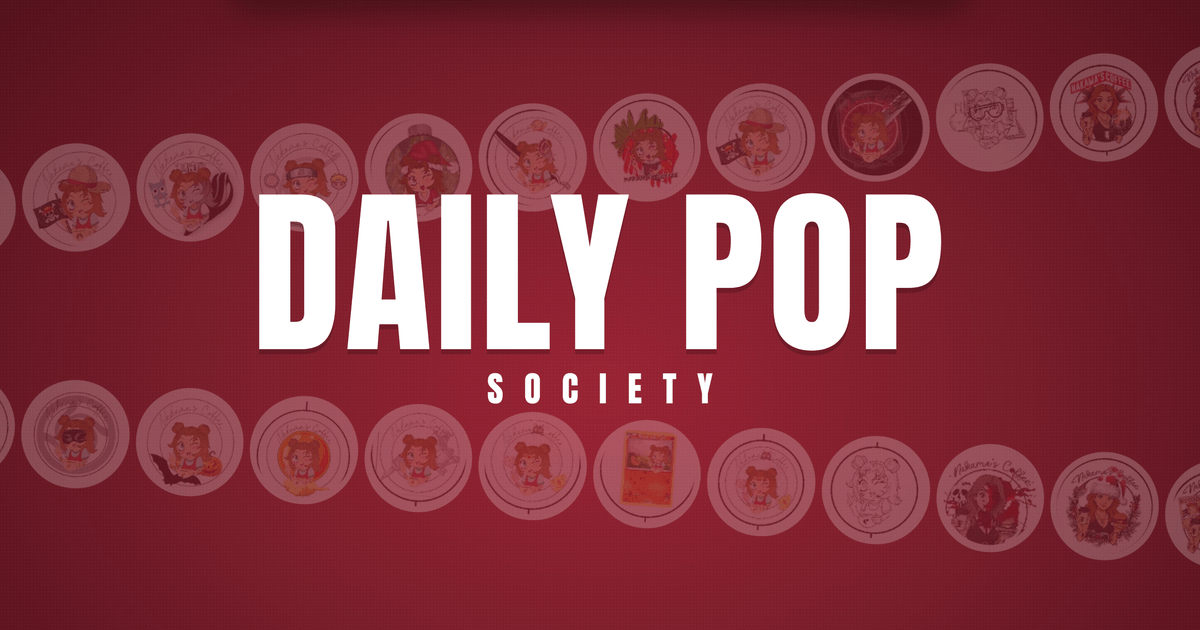
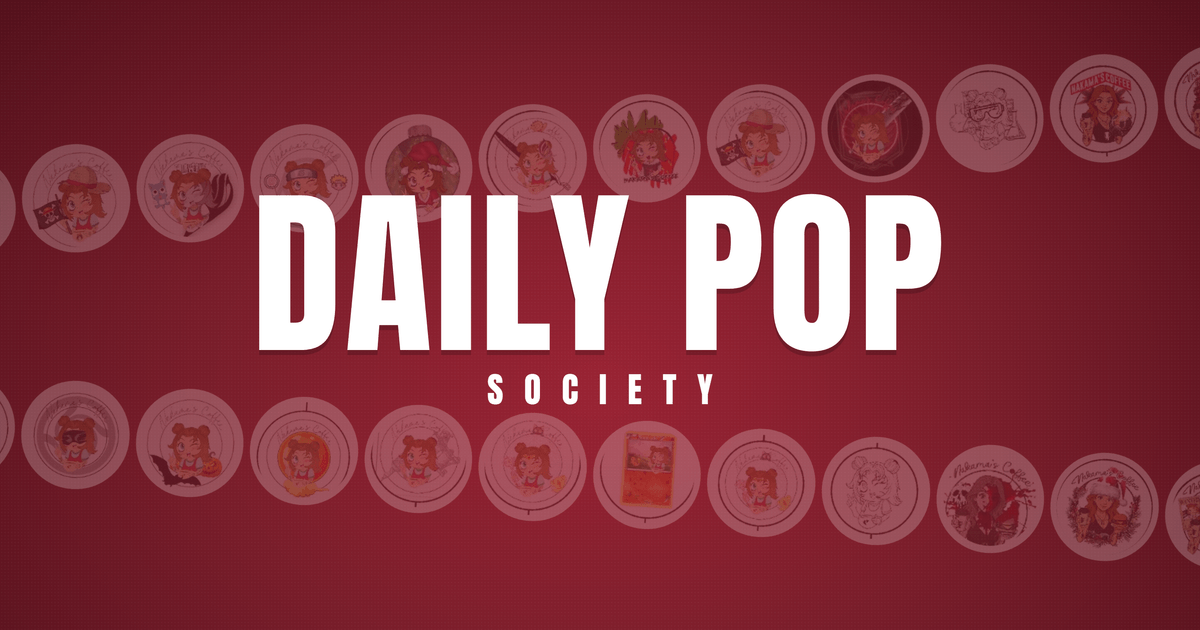
feat: vraie carte transcrite depuis l'ancien site, DEMO désactivé ; OG sans header
Claude-Session: https://claude.ai/code/session_019L79jh7bQLpHnkHyeQ8KLi

diff --git a/src/data/carte.ts b/src/data/carte.ts
@@ -1,25 +1,41 @@
-/* CARTE DE DÉMONSTRATION. Le dossier « Menu » du brief n'a pas été fourni :
-   noms, descriptions et prix sont fictifs mais plausibles. Remplacer ici, les
-   pages se mettent à jour seules TANT QUE chaque catégorie porte un `visuel`.
-   Ce qui le garantit, c'est le TYPE `Categorie` (`pnpm check`), pas une garde
-   de frontmatter : la-carte.astro n'en contient aucune pour le visuel — sans
-   lui, le build casse en TypeError au moment de construire l'URL de l'image.
-   Un id d'illustration inconnu, lui, est refusé par `illu()` (lib/illu.ts). */
+/* Carte reprise de l'ancien site (daily-pop-society.netlify.app) le 2026-09-08
+   — à faire relire par Rachel ; ce fichier est la seule source, les pages
+   suivent. Chaque catégorie porte un `visuel` : ce qui le garantit, c'est le
+   TYPE `Categorie` (`pnpm check`), pas une garde de frontmatter —
+   la-carte.astro n'en contient aucune pour le visuel, et sans lui le build
+   casse en TypeError au moment de construire l'URL de l'image. Un id
+   d'illustration inconnu, lui, est refusé par `illu()` (lib/illu.ts).
+
+   Deux conventions de prix, toutes deux reprises telles quelles de l'ancien
+   site — jamais une moyenne, jamais un arrondi :
+   · tailles ou formats d'un même produit → « 6 / 9 / 15,50 € » ;
+   · éventail de parfums trop long pour la ligne → « 8,90 → 12,90 € », le détail
+     parfum par parfum vivant alors dans la description.
+   Les « ,00 » de l'ancien site sont tombés (« 17,00€ » → « 17 € ») : c'est de
+   la typographie, pas un changement de prix. */
 import { LICENCE_DU_MOIS } from './site';
 import type { RefVisuel } from '../lib/illu';
 
-/* Mention « carte de démonstration » affichée tant que ceci vaut true : passer
-   à false quand la vraie carte est en place — cela retire la mention ET
-   débloque la mise en production (scripts/verifier.mjs, garde PROD=1). */
-export const DEMO = true;
+/* Mention « carte de démonstration » affichée tant que ceci vaut true : passé
+   à false le 2026-09-08 avec l'arrivée de la vraie carte — cela retire la
+   mention ET débloque la mise en production (scripts/verifier.mjs, garde
+   PROD=1). */
+export const DEMO = false;
 
-export type Item = { nom: string; desc: string; prix: string; tags?: ('végé' | 'sans alcool' | 'signature')[] };
+/* `desc` est FACULTATIF : l'ancien site ne décrit ni le Seven Up ni le thé, et
+   un `<p>` vide dans la liste creuse un blanc que personne ne sait expliquer.
+   La page ne pose la ligne de description que s'il y en a une. */
+export type Item = { nom: string; desc?: string; prix: string; tags?: ('végé' | 'sans alcool' | 'signature')[] };
 /* `visuel` : l'id d'une illustration de public/media/illu/, résolu par
    `visuel()` de lib/illu.ts — l'alternative textuelle par défaut y vit déjà
    (ALT) ; `alt` ici ne sert qu'à la remplacer quand le contexte le demande. */
 export type Categorie = { slug: string; nom: string; intro: string; visuel: RefVisuel; items: Item[] };
 export type Ephemere = { licence: string; intro: string; items: Item[] };
 
+/* À CONFIRMER CLIENTE : créations de la carte éphémère d'octobre. L'ancien site
+   ne porte AUCUNE carte du mois — ces trois lignes restent donc les nôtres,
+   inventées, en attendant celles de Rachel. Elles sont le seul contenu de cette
+   page qui ne vienne pas de l'ancien site. */
 export const EPHEMERE: Ephemere = {
   licence: LICENCE_DU_MOIS.nom,
   intro: 'La carte éphémère du mois : des créations inspirées des sorcières que tout le monde attend.',
@@ -32,68 +48,124 @@ export const EPHEMERE: Ephemere = {
 
 export const CATEGORIES: Categorie[] = [
   {
-    slug: 'cocktails', nom: 'Cocktails', intro: 'Des cocktails créés d\'après les personnages : leur caractère dans le verre.',
+    slug: 'cocktails', nom: 'Cocktails signature', intro: 'Les créations maison, à composition affichée : tu sais ce que tu bois.',
     visuel: { id: 'cocktail-zoro' },
     items: [
-      { nom: 'Le Zoro', desc: 'gin, yuzu, basilic, trois lames de citron vert', prix: '9 €', tags: ['signature'] },
-      { nom: 'Le Stark', desc: 'whisky, miel, gingembre, twist d\'orange', prix: '10 €' },
-      { nom: 'La Poudlard', desc: 'rhum épicé, pomme, cannelle, mousse de caramel', prix: '9,50 €' },
-      { nom: 'Le Multivers', desc: 'vodka, litchi, fruit du dragon, crème de violette', prix: '10 €' },
+      { nom: 'Anti Takumi', desc: 'liqueur fraise, rhum blanc, topping fraise, sirop fraise, jus de mangue, eau pétillante', prix: '14 €', tags: ['signature'] },
+      { nom: 'Queen Rachel', desc: 'tequila, whisky, sirop cerise, citron, sucre de canne, cola', prix: '14 €', tags: ['signature'] },
+      { nom: 'Mao Mao', desc: 'gin, vodka, sirop cerise, soda, citron, butterfly pea tea', prix: '14 €', tags: ['signature'] },
+      { nom: 'Stranger Spice', desc: 'Jack Red, rhum brun, vodka vanille, jus de pomme, soda', prix: '14 €', tags: ['signature'] },
+      { nom: 'Guts', desc: 'whisky, vanille, rhum brun, triple sec, jus de raisin, soda', prix: '14 €', tags: ['signature'] },
+      { nom: 'Summer Loving', desc: 'vodka pastèque, gin, citron, tonic pastèque framboise, basilic, sorbet framboise', prix: '14 €', tags: ['signature'] },
+      { nom: 'Bridgerton Blush', desc: 'gin, vodka framboise, sirop de rose, jus fruits de la passion', prix: '14 €', tags: ['signature'] },
+      { nom: 'Tony Tony', desc: 'gin, amaretto, vodka, limonade, citron, barbe à papa, sirop de fraise', prix: '14 €', tags: ['signature'] },
+      { nom: 'Maleficent Mist', desc: 'rhum brun, vodka, gin, sirop de violette, citron vert, soda', prix: '12 €', tags: ['signature'] },
+      { nom: 'Miami Vice', desc: 'tequila, liqueur orange, cava brut, purée de fraise, citron, jus de mangue', prix: '14 €', tags: ['signature'] },
+      { nom: 'Affogato Spécial', desc: 'espresso versé sur glace vanille, crème fraîche, cacao, avec un supplément alcool au choix : amaretto ou whisky', prix: '7,50 €', tags: ['signature'] },
     ],
   },
   {
-    slug: 'mocktails', nom: 'Mocktails', intro: 'Les mêmes univers, sans alcool.',
+    slug: 'cocktails-sans-alcool', nom: 'Cocktails sans alcool', intro: "Les mêmes créations maison, sans une goutte d'alcool.",
     visuel: { id: 'mocktail-fraise' },
     items: [
-      { nom: 'Le Totoro', desc: 'concombre, menthe, citron vert, eau pétillante', prix: '6,50 €', tags: ['sans alcool'] },
-      { nom: 'Le Pikachu', desc: 'mangue, passion, gingembre, jus de citron', prix: '6,50 €', tags: ['sans alcool'] },
-      { nom: 'La Fraise Sailor', desc: 'fraise, basilic, sirop de rose, tonic', prix: '6,50 €', tags: ['sans alcool'] },
+      { nom: 'Kirby Love', desc: 'sirop de fraise, citron, soda, sorbet fraise', prix: '8,50 €', tags: ['sans alcool'] },
+      { nom: 'Jinxs Juice', desc: 'topping bubble gum, sirop pêche framboise, citron, soda, eau pétillante, mix de barbe à papa', prix: '8,50 €', tags: ['sans alcool'] },
+      { nom: 'Pickles Rick', desc: 'sirop de kiwi, sirop de vanille, jus de pomme, soda', prix: '8 €', tags: ['sans alcool'] },
+      { nom: 'Nuage magique', desc: 'sirop pêche blanche, sirop de vanille, sirop de fraise, soda, eau pétillante, barbe à papa jaune', prix: '8,50 €', tags: ['sans alcool'] },
+      { nom: 'Barbie Dream Pop', desc: 'topping framboise, sirop de rose, sirop de fraise, soda, eau pétillante', prix: '8 €', tags: ['sans alcool'] },
+      { nom: 'Wanda Frost', desc: 'purée de fraise, citron, menthe, soda, sirop de cerise', prix: '8,50 €', tags: ['sans alcool'] },
     ],
   },
   {
-    slug: 'bubble-teas', nom: 'Bubble teas', intro: 'Perles de tapioca ou perles de fruit, chaud ou glacé.',
+    slug: 'bubble-tea-softs', nom: 'Bubble tea & softs', intro: 'Ton bubble tea se compose en trois choix ; les classiques sont là aussi.',
     visuel: { id: 'bubble-tea' },
     items: [
-      { nom: 'Mangue passion', desc: 'thé vert, perles passion', prix: '6 €', tags: ['sans alcool'] },
-      { nom: 'Taro', desc: 'lait, taro, perles de tapioca', prix: '6 €', tags: ['sans alcool'] },
-      { nom: 'Matcha', desc: 'thé matcha, lait d\'avoine, perles brown sugar', prix: '6,50 €', tags: ['sans alcool'] },
+      { nom: 'Bubble Tea', desc: 'thé glacé au choix (vert, noir, fraise), sirop au choix (fraise, violette, pêche, cerise, vanille), billes au choix (fraise, cerise, litchi, myrtilles) — lait +1 €', prix: '6 €' },
+      { nom: 'Thé glacé maison', prix: '4 €' },
+      { nom: 'Pepsi / Pepsi Max', prix: '3 €' },
+      { nom: 'Looza', desc: 'Fraise · Pomme cerise · Melon Delight · Ace', prix: '3,20 €' },
+      { nom: 'Spa plate / pétillante', prix: '3 €' },
+      { nom: 'Seven Up', prix: '3 €' },
     ],
   },
   {
-    slug: 'cafes', nom: 'Cafés & boissons chaudes', intro: 'Depuis l\'époque Nakama\'s Coffee, on prend le café au sérieux.',
+    slug: 'bieres', nom: 'Bières', intro: 'Trois pressions, dix bouteilles, dont une sans alcool.',
+    visuel: { id: 'comptoir' },
+    items: [
+      { nom: 'Blanche rosée', desc: 'au fût', prix: '4 €' },
+      { nom: 'Stella Artois', desc: 'au fût', prix: '3,50 €' },
+      { nom: 'Triple Karmeliet', desc: 'au fût', prix: '5,50 €' },
+      { nom: 'Frambush', desc: 'bouteille 33 cl', prix: '4,70 €' },
+      { nom: 'Pêche Mel Bush', desc: 'bouteille 33 cl', prix: '4,70 €' },
+      { nom: 'Cuvée des Trolls', desc: 'bouteille 33 cl', prix: '4,80 €' },
+      { nom: 'Lowa Troll', desc: 'bouteille 33 cl', prix: '4,50 €', tags: ['sans alcool'] },
+      { nom: 'Duvel', desc: 'bouteille 33 cl', prix: '4,80 €' },
+      { nom: 'Desperados', desc: 'bouteille', prix: '4,50 €' },
+      { nom: 'Chimay Blanche', desc: 'bouteille 33 cl', prix: '4,70 €' },
+      { nom: 'Chimay Bleue', desc: 'bouteille 33 cl', prix: '5,20 €' },
+      { nom: 'Chimay Dorée', desc: 'bouteille 33 cl', prix: '4,50 €' },
+      { nom: 'Orval', desc: 'bouteille 33 cl', prix: '4,50 €' },
+    ],
+  },
+  {
+    slug: 'boissons-chaudes', nom: 'Boissons chaudes', intro: "Du café à l'ube latte, et l'irish coffee en trois tailles.",
     visuel: { id: 'cafe-latte' },
     items: [
-      { nom: 'Espresso', desc: 'arabica torréfié en Belgique', prix: '2,50 €', tags: ['sans alcool'] },
-      { nom: 'Latte de l\'Hokage', desc: 'latte, sirop de sésame noir, latte art étoile', prix: '4,50 €', tags: ['sans alcool'] },
-      { nom: 'Chocolat chaud Butterbeer', desc: 'chocolat, caramel beurre salé, chantilly', prix: '5 €', tags: ['sans alcool'] },
+      { nom: 'Affogato', desc: 'un espresso directement versé sur de la glace vanille, nappé de crème fraîche et de cacao', prix: '5,50 €' },
+      { nom: 'Café', desc: 'lait +0,50 €', prix: '3 €' },
+      { nom: 'Cappuccino', desc: 'crème fraîche ou mousse de lait', prix: '4 €' },
+      { nom: 'Ube Latte', desc: 'au choix chaud ou froid — sirop +0,50 €', prix: '6 €' },
+      { nom: 'Latte Macchiato', desc: 'au choix chaud ou froid — topping vanille, caramel, noisette, cookie ou pop corn +0,50 €, lait végétal +0,50 €', prix: '5 €' },
+      { nom: 'Matcha Latte', desc: 'au choix chaud ou froid — topping vanille, caramel ou noisette +0,50 €', prix: '6 €' },
+      { nom: 'Irish Coffee', desc: 'Le Grain 25 cl, Le Chann 50 cl, Le Joann 75 cl', prix: '9,50 / 18 / 27 €' },
+      { nom: 'Italian Coffee', prix: '9,50 €' },
+      { nom: 'Thé', prix: '3,30 €' },
     ],
   },
   {
-    slug: 'starters', nom: 'Starters', intro: 'À partager, ou pas.',
+    slug: 'starters', nom: 'Starters', intro: 'À partager, ou pas — les portions solo existent.',
     visuel: { id: 'starters' },
     items: [
-      { nom: 'Nachos Nakama', desc: 'cheddar fondu, guacamole, pico de gallo, jalapeños', prix: '9 €', tags: ['végé'] },
-      { nom: 'Chicken pop', desc: 'bouchées de poulet croustillant, sauce sriracha-miel', prix: '8,50 €' },
-      { nom: 'Rouleaux du dragon', desc: 'mini rouleaux de printemps, sauce sweet chili', prix: '7,50 €', tags: ['végé'] },
+      { nom: "Joey doesn't share food !", desc: 'nuggets, onion rings, karaage, portion nachos et cheddar — pour 2 personnes, +2,50 € par personne supplémentaire', prix: '17,50 €' },
+      { nom: 'La planche de Remi', desc: 'planche apéro à partager avec mix de charcuterie, mix de fromage, olives, tapenade, pesto, grisini', prix: '15,50 €' },
+      { nom: 'Nachos', desc: 'cheddar, guacamole, jalapeños, sauce salsa — Padawan (1 pers.), Chevalier Jedi (2-3 pers.), Maître Jedi (3-4 pers.)', prix: '6 / 9 / 15,50 €' },
+      { nom: 'Portion onion rings', desc: 'sauce au choix', prix: '5,50 €' },
+      { nom: 'Portion karaage', desc: 'sauce au choix', prix: '6 €' },
+      { nom: 'Portion de nuggets', desc: 'sauce au choix', prix: '4 €' },
     ],
   },
   {
-    slug: 'burgers', nom: 'Burgers', intro: 'Pain brioché, frites maison, et une sauce qui a un nom.',
+    slug: 'burgers', nom: 'Burgers', intro: 'Bun brioché, viande au choix, et une sauce qui a un nom.',
     visuel: { id: 'burger-hokage' },
     items: [
-      { nom: 'Burger Hokage', desc: 'bœuf, cheddar, sauce ramen, oignons crispy', prix: '15 €', tags: ['signature'] },
-      { nom: 'Burger Vador', desc: 'pain noir, bœuf, bacon, cheddar fumé, sauce BBQ', prix: '15,50 €' },
-      { nom: 'Burger Kirby', desc: 'galette de pois chiches, chèvre, miel, roquette', prix: '14 €', tags: ['végé'] },
-      { nom: 'Burger Goku', desc: 'double bœuf, double cheddar, sauce spicy Super Saiyan', prix: '17 €' },
+      { nom: 'Chôji', desc: 'pain burger brioché, 2 tranches de cheddar, oignons frits, bacon grillé, salade, tomate, sauce papillon (moutarde, ketchup et miel)', prix: '17 €' },
+      { nom: 'TNT Burger', desc: 'pain burger brioché, 2 tranches de cheddar, onion rings croustillants, mayonnaise sriracha, paprika fumé, pickles de jalapeños, laitue croquante, tomate fraîche', prix: '19 €' },
+      { nom: 'Le Stark', desc: 'pain burger brioché, bacon grillé, cheddar fondu, oignons rouges, laitue, tomate, cornichon, sauce BBQ', prix: '15 €' },
+      { nom: 'Le Colossal', desc: 'bun brioché, viande au choix, double rösti de pomme de terre, tranches de cheddar, salade, oignons rouges et oignons frits', prix: '18 €' },
+      { nom: 'Fat Nuggets', desc: 'bun, nuggets, cheddar, cheddar fondu, oignons frits, salade, sauce smokey bacon', prix: '16 €' },
+      { nom: 'Morrow Burger', desc: "bun brioché, viande au choix, cheddar affiné, bacon grillé au sirop d'érable et paprika, pommes vertes et sauce framboise vinaigre balsamique", prix: '17 €' },
+      { nom: 'Jungle Boost', desc: 'bun, viande au choix, poivron grillé, ananas grillé, cheddar, sauce poivre et filet de miel', prix: '15 €' },
+      { nom: 'Gomu Gomu', desc: 'bun, 4 beef smash, 4 tranches cheddar, 3 tranches de lard grillé, sauce curry mangue, salade croquante, oignons frits', prix: '25 €' },
+      { nom: 'Baby Boss Burger', desc: 'menu des petits héros : mini bun, smash burger simple, cheddar, sauce ketchup', prix: '9,50 €' },
+      { nom: "Maggie's Burger", desc: 'menu des petits héros : mini bun, tenders de poulet, cheddar, sauce mayo', prix: '9,50 €' },
+      /* Le seul prix que l'ancien site ne publie PAS : le burger sur mesure n'y
+         porte aucun montant de base, seulement des suppléments. On ne l'invente
+         pas — on écrit ce qu'on sait, le comptoir dit le reste. */
+      { nom: 'Custom ton burger', desc: 'bun brioché, viande au choix (smash burger 150 g, Black Angus 200 g +2 €, poulet pané, steak végétarien), accompagnement en option (potatoes +3 €, onion rings +4 €, rösti +4 €). Suppléments : sauce +1 €, viande +2 €, cheese +1,50 € — hors Black Angus 200 g, supplément +3 €', prix: 'à composer' },
     ],
   },
   {
-    slug: 'patisseries', nom: 'Pâtisseries', intro: 'Faites maison, elles changent avec la licence du mois.',
+    slug: 'desserts', nom: 'Desserts', intro: 'Crêpes, gaufres, milkshakes : la partie sucrée de la carte.',
     visuel: { id: 'patisserie' },
     items: [
-      { nom: 'Cheesecake Spider', desc: 'coulis de fruits rouges en toile', prix: '6 €', tags: ['végé'] },
-      { nom: 'Cookie Cookie Monster', desc: 'triple chocolat, cœur fondant', prix: '3,50 €', tags: ['végé'] },
-      { nom: 'Mochi du mois', desc: 'trois mochis glacés, parfums selon la licence', prix: '6,50 €', tags: ['végé'] },
+      { nom: 'Crêpes (2 pièces)', desc: "sucre 8,90 €, cassonade 8,90 €, caramel au beurre salé 9,90 €, Nutella 10,90 €, sirop d'érable 11,90 €, Snickers 12,90 €", prix: '8,90 → 12,90 €' },
+      { nom: 'Milkshake', desc: 'vanille et fraise 6 €, pistache, caramel, Nutella et speculoos 6,50 €', prix: '6 / 6,50 €' },
+      { nom: 'Le soutif de Nicky', desc: '2 crêpes avec boules de glace vanille et topping chocolat', prix: '12,90 €' },
+      { nom: 'Freakshow', desc: 'milkshake vanille avec topping au choix (chocolat ou fraise), une montagne de chantilly et un assortiment de gourmandises sucrées', prix: '12,90 €' },
+      { nom: 'Bubble Waffle', desc: 'une gaufrette moelleuse et croustillante, une boule de glace et un topping généreux : chocolat, Nutella ou 3 chocolats 11,90 € ; speculoos, caramel beurre salé, chocolat blanc pistache ou fraise (en saison) 12,90 €', prix: '11,90 / 12,90 €' },
+      { nom: 'Corn waffle (trio)', desc: 'speculoos, pistache, nutella', prix: '13,90 €' },
+      { nom: 'Affogato Cookie Dough', desc: 'pâte à cookie crue, boule de glace vanille, topping au choix, chantilly, espresso à verser', prix: '8,90 €' },
+      { nom: "« D'oh ! »", desc: 'donuts avec boule de glace vanille et topping au choix', prix: '8,90 €' },
     ],
   },
 ];

diff --git a/PROJET.html b/PROJET.html
@@ -108,13 +108,13 @@ pnpm build        # dist/
 pnpm test         # check + build + contrôle de dist/
 python scripts/logos.py            # regénère les logos + src/data/logos.ts (planches dans brief/, gitignoré)
 KIE_API_KEY=... bash scripts/illustrations.sh && node scripts/webp.mjs   # illustrations manquantes (payant : ~0,04 $/image)
-PROD=1 pnpm verifier   # contrôle de mise en production (refuse tant que la carte de démo est active)</code></pre>
+PROD=1 pnpm verifier   # contrôle de mise en production (refuse tant que `DEMO` vaut true dans src/data/carte.ts)</code></pre>
     </section>
 
     <section id="architecture">
       <h2>🗂 Architecture</h2>
       <ul class="puces">
-        <li><code>src/data/</code> — la seule source de contenu : <code>site.ts</code> (identité, nav, licence du mois), <code>horaires.ts</code> (créneaux + conversion JSON-LD), <code>carte.ts</code> (carte <strong>DE DÉMONSTRATION</strong>, drapeau <code>DEMO</code>), <code>events.ts</code> (une seule liste d'événements datée, jamais trois listes séparées), <code>galerie.ts</code> (thèmes), <code>logos.ts</code> (<strong>généré</strong>, ne pas éditer à la main), <code>histoire.ts</code> (les trois étapes + le sens du nom)</li>
+        <li><code>src/data/</code> — la seule source de contenu : <code>site.ts</code> (identité, nav, licence du mois), <code>horaires.ts</code> (créneaux + conversion JSON-LD), <code>carte.ts</code> (la carte <strong>reprise de l'ancien site</strong> le 2026-09-08, drapeau <code>DEMO</code> désormais <code>false</code>), <code>events.ts</code> (une seule liste d'événements datée, jamais trois listes séparées), <code>galerie.ts</code> (thèmes), <code>logos.ts</code> (<strong>généré</strong>, ne pas éditer à la main), <code>histoire.ts</code> (les trois étapes + le sens du nom)</li>
         <li><code>src/lib/</code> — <code>illu.ts</code> (résolution des illustrations et des logos en visuels : src/srcset/alt, une seule implémentation), <code>jsonld.ts</code> (schéma <code>BarOrPub</code>), <code>motion.ts</code> (socle GSAP partagé aux sites vitrines : garde <code>prefers-reduced-motion</code>, seuil desktop 1024, chargement différé), <code>dates.ts</code> (<code>moisLisible</code>, une seule implémentation pour la frise et la galerie)</li>
         <li><code>src/components/</code> — <code>Generique</code> (hero signature : épinglé et scrubé au scroll sur desktop, intro courte sur mobile, statique sans JS/reduced-motion), <code>TitleCard</code> (ouverture de page), <code>Case</code> (case de comics), <code>EventCard</code>, <code>FriseLogos</code> (frise horizontale des logos par année, scroll natif), <code>Horaires</code>, <code>Header</code>, <code>Footer</code>, <code>LienExterne</code> (lien externe accessible : <code>noopener noreferrer</code> + mention lecteur d'écran)</li>
         <li><code>src/layouts/Base.astro</code> — SEO, Open Graph, JSON-LD, boot des reveals</li>
@@ -158,7 +158,8 @@ PROD=1 pnpm verifier   # contrôle de mise en production (refuse tant que la car
         <tr><td>SEO, Open Graph, JSON-LD, passe Lighthouse</td><td><span class="badge b-done">Done</span></td><td>2026-09-08</td></tr>
         <tr><td>Image Docker nginx testée en local</td><td><span class="badge b-done">Done</span></td><td>2026-09-08</td></tr>
         <tr><td>Maquette en ligne (dailypopsociety.chris-ia.com)</td><td><span class="badge b-done">Done</span></td><td>2026-09-08</td></tr>
-        <tr><td>Vraie carte, photos, logos HD (cliente)</td><td><span class="badge b-plan">Planned</span></td><td>—</td></tr>
+        <tr><td>Vraie carte (reprise de l'ancien site, à relire par Rachel)</td><td><span class="badge b-done">Done</span></td><td>2026-09-08</td></tr>
+        <tr><td>Photos, logos HD (cliente)</td><td><span class="badge b-plan">Planned</span></td><td>—</td></tr>
         <tr><td>Mise en production dailypopsociety.be + coupure Netlify/Firebase</td><td><span class="badge b-plan">Planned</span></td><td>—</td></tr>
       </table></div>
     </section>
@@ -169,6 +170,7 @@ PROD=1 pnpm verifier   # contrôle de mise en production (refuse tant que la car
         <article class="entree">
           <h3>2026-09-08</h3>
           <ul>
+            <li>✨ Ajout : vraie carte transcrite depuis l'ancien site, <code>DEMO</code> désactivé — 8 catégories, 70 items, tous les prix repris de <code>brief/site-actuel/</code> (cocktails signature, cocktails sans alcool, bubble tea &amp; softs, bières, boissons chaudes, starters, burgers, desserts) ; <code>desc</code> devenu facultatif (l'ancien site ne décrit ni le Seven Up ni le thé) ; image Open Graph regénérée sans la capsule du header</li>
             <li>🐛 Fix : dernière passe — <code>sizes</code> des bandes du générique aligné sur son <code>clamp</code> (la 256 ne part plus sur mobile), montage HD servi au desktop dense (deux fichiers, un seul téléchargé), events passés sans faux visuels (cartes de texte seul), garde de cohérence sur la licence du mois, JSON-LD <code>Event</code> en deux périodes réelles, image Open Graph intemporelle, maquette <code>noindex</code> côté nginx, alignements et titres de section</li>
             <li>✨ Ajout : contrôle du <code>canonical</code> et des liens internes dans <code>scripts/verifier.mjs</code></li>
             <li>✨ Ajout : socle visuel (tokens, layout SEO/JSON-LD, header capsule, footer, horaires, page 404)</li>
@@ -211,7 +213,7 @@ PROD=1 pnpm verifier   # contrôle de mise en production (refuse tant que la car
     <section id="problemes">
       <h2>⚠ Problèmes connus</h2>
       <ul class="puces">
-        <li>Carte de démonstration (<code>DEMO = true</code> dans <code>src/data/carte.ts</code>) : noms, descriptions et prix fictifs. Le garde <code>PROD=1</code> de <code>scripts/verifier.mjs</code> refuse la mise en production tant qu'elle reste active.</li>
+        <li>Carte transcrite depuis l'ancien site (<code>src/data/carte.ts</code>, 2026-09-08) : prix et libellés à faire relire par Rachel. Deux points appellent sa réponse — le « Custom ton burger » n'a <strong>aucun prix de base</strong> sur l'ancien site (affiché « à composer »), et la carte éphémère du mois y est absente (les trois créations affichées restent les nôtres, marquées « À CONFIRMER CLIENTE » dans le code).</li>
         <li>Logos mensuels découpés des planches en 160/256&nbsp;px : suffisants en mouvement (générique, frise), à remplacer par les fichiers HD de la cliente si un usage plus grand est envisagé.</li>
         <li>Photos manquantes (events passés, le lieu) : remplacées par des illustrations et des logos en attendant.</li>
         <li>E-mail public à confirmer : le site affiche <code>contact@dailypopsociety.be</code> (adresse du domaine), le brief donne une adresse Hotmail.</li>
@@ -241,7 +243,7 @@ PROD=1 pnpm verifier   # contrôle de mise en production (refuse tant que la car
       <ol class="puces">
         <li>Réserver <code>dailypopsociety.be</code> et configurer le DNS.</li>
         <li>Nommer l'hébergeur dans les mentions légales (<code>src/pages/mentions-legales.astro</code>).</li>
-        <li>Passer <code>DEMO = false</code> dans <code>src/data/carte.ts</code> avec la vraie carte — le contrôleur refuse la mise en production sinon (<code>PROD=1 pnpm verifier</code>).</li>
+        <li>✅ Fait le 2026-09-08 : <code>DEMO = false</code> dans <code>src/data/carte.ts</code>, la vraie carte est en place — reste à la faire relire par Rachel avant la mise en ligne.</li>
         <li>⚠ <strong>Retirer les <code>add_header X-Robots-Tag "noindex" always;</code> de <code>nginx.conf</code></strong> (le bloc <code>server</code> + les trois <code>location</code>) : ils empêchent l'indexation de la MAQUETTE, ils interdiraient celle du vrai site. Chaque ligne porte le commentaire « MAQUETTE : à retirer en production ».</li>
         <li><code>PROD=1 pnpm verifier</code>, puis déployer.</li>
         <li>Couper le site Netlify et supprimer ou verrouiller le projet Firebase (cf. Problèmes connus).</li>

diff --git a/PROJET.md b/PROJET.md
@@ -21,11 +21,11 @@ pnpm build        # dist/
 pnpm test         # check + build + contrôle de dist/
 python scripts/logos.py            # regénère les logos + src/data/logos.ts (planches dans brief/, gitignoré)
 KIE_API_KEY=... bash scripts/illustrations.sh && node scripts/webp.mjs   # illustrations manquantes (payant : ~0,04 $/image)
-PROD=1 pnpm verifier   # contrôle de mise en production (refuse tant que la carte de démo est active)
+PROD=1 pnpm verifier   # contrôle de mise en production (refuse tant que `DEMO` vaut true dans src/data/carte.ts)
 ```
 
 ## Architecture
-- `src/data/` — la seule source de contenu : `site.ts` (identité, nav, licence du mois), `horaires.ts` (créneaux + conversion JSON-LD), `carte.ts` (carte **DE DÉMONSTRATION**, drapeau `DEMO`), `events.ts` (une seule liste d'événements datée, jamais trois listes séparées), `galerie.ts` (thèmes), `logos.ts` (**généré**, ne pas éditer à la main), `histoire.ts` (les trois étapes + le sens du nom)
+- `src/data/` — la seule source de contenu : `site.ts` (identité, nav, licence du mois), `horaires.ts` (créneaux + conversion JSON-LD), `carte.ts` (la carte **reprise de l'ancien site** le 2026-09-08, drapeau `DEMO` désormais `false`), `events.ts` (une seule liste d'événements datée, jamais trois listes séparées), `galerie.ts` (thèmes), `logos.ts` (**généré**, ne pas éditer à la main), `histoire.ts` (les trois étapes + le sens du nom)
 - `src/lib/` — `illu.ts` (résolution des illustrations et des logos en visuels : src/srcset/alt, une seule implémentation), `jsonld.ts` (schéma `BarOrPub`), `motion.ts` (socle GSAP partagé aux sites vitrines : garde `prefers-reduced-motion`, seuil desktop 1024, chargement différé), `dates.ts` (`moisLisible`, une seule implémentation pour la frise et la galerie)
 - `src/components/` — `Generique` (hero signature : épinglé et scrubé au scroll sur desktop, intro courte sur mobile, statique sans JS/reduced-motion), `TitleCard` (ouverture de page), `Case` (case de comics), `EventCard`, `FriseLogos` (frise horizontale des logos par année, scroll natif), `Horaires`, `Header`, `Footer`, `LienExterne` (lien externe accessible : `noopener noreferrer` + mention lecteur d'écran)
 - `src/layouts/Base.astro` — SEO, Open Graph, JSON-LD, boot des reveals
@@ -62,11 +62,13 @@ PROD=1 pnpm verifier   # contrôle de mise en production (refuse tant que la car
 | SEO, Open Graph, JSON-LD, passe Lighthouse | ✅ Done | 2026-09-08 |
 | Image Docker nginx testée en local | ✅ Done | 2026-09-08 |
 | Maquette en ligne (dailypopsociety.chris-ia.com) | ✅ Done | 2026-09-08 |
-| Vraie carte, photos, logos HD (cliente) | 📋 Planned | — |
+| Vraie carte (reprise de l'ancien site, à relire par Rachel) | ✅ Done | 2026-09-08 |
+| Photos, logos HD (cliente) | 📋 Planned | — |
 | Mise en production dailypopsociety.be + coupure Netlify/Firebase | 📋 Planned | — |
 
 ## Journal des changements
 ### 2026-09-08
+- ✨ Ajout : vraie carte transcrite depuis l'ancien site, `DEMO` désactivé — 8 catégories, 70 items, tous les prix repris de `brief/site-actuel/` (cocktails signature, cocktails sans alcool, bubble tea & softs, bières, boissons chaudes, starters, burgers, desserts) ; `desc` devenu facultatif (l'ancien site ne décrit ni le Seven Up ni le thé) ; image Open Graph regénérée sans la capsule du header
 - 🐛 Fix : dernière passe — `sizes` des bandes du générique aligné sur son `clamp` (la 256 ne part plus sur mobile), montage HD servi au desktop dense (deux fichiers, un seul téléchargé), events passés sans faux visuels (cartes de texte seul), garde de cohérence sur la licence du mois, JSON-LD `Event` en deux périodes réelles, image Open Graph intemporelle, maquette `noindex` côté nginx, alignements et titres de section
 - ✨ Ajout : contrôle du `canonical` et des liens internes dans `scripts/verifier.mjs`
 - ✨ Ajout : socle visuel (tokens, layout SEO/JSON-LD, header capsule, footer, horaires, page 404)
@@ -100,7 +102,7 @@ PROD=1 pnpm verifier   # contrôle de mise en production (refuse tant que la car
 - ✨ Ajout : projet Astro 5 scaffoldé (port 4332, sitemap, dev toolbar désactivée), première version du contrôleur `scripts/verifier.mjs`
 
 ## Problèmes connus
-- Carte de démonstration (`DEMO = true` dans `src/data/carte.ts`) : noms, descriptions et prix fictifs. Le garde `PROD=1` de `scripts/verifier.mjs` refuse la mise en production tant qu'elle reste active.
+- Carte transcrite depuis l'ancien site (`src/data/carte.ts`, 2026-09-08) : prix et libellés à faire relire par Rachel. Deux points appellent sa réponse — le « Custom ton burger » n'a **aucun prix de base** sur l'ancien site (affiché « à composer »), et la carte éphémère du mois y est absente (les trois créations affichées restent les nôtres, marquées « À CONFIRMER CLIENTE » dans le code).
 - Logos mensuels découpés des planches en 160/256 px : suffisants en mouvement (générique, frise), à remplacer par les fichiers HD de la cliente si un usage plus grand est envisagé.
 - Photos manquantes (events passés, le lieu) : remplacées par des illustrations et des logos en attendant.
 - E-mail public à confirmer : le site affiche `contact@dailypopsociety.be` (adresse du domaine), le brief donne une adresse Hotmail.
@@ -124,7 +126,7 @@ PROD=1 pnpm verifier   # contrôle de mise en production (refuse tant que la car
 - **Checklist de mise en production** (dans l'ordre) :
   1. Réserver `dailypopsociety.be` et configurer le DNS.
   2. Nommer l'hébergeur dans les mentions légales (`src/pages/mentions-legales.astro`).
-  3. Passer `DEMO = false` dans `src/data/carte.ts` avec la vraie carte — le contrôleur refuse la mise en production sinon (`PROD=1 pnpm verifier`).
+  3. ✅ Fait le 2026-09-08 : `DEMO = false` dans `src/data/carte.ts`, la vraie carte est en place — reste à la faire relire par Rachel avant la mise en ligne.
   4. ⚠ **Retirer les `add_header X-Robots-Tag "noindex" always;` de `nginx.conf`** (le bloc `server` + les trois `location`) : ils empêchent l'indexation de la MAQUETTE, ils interdiraient celle du vrai site. Chaque ligne porte le commentaire « MAQUETTE : à retirer en production ».
   5. `PROD=1 pnpm verifier`, puis déployer.
   6. Couper le site Netlify et supprimer ou verrouiller le projet Firebase (cf. Problèmes connus).
